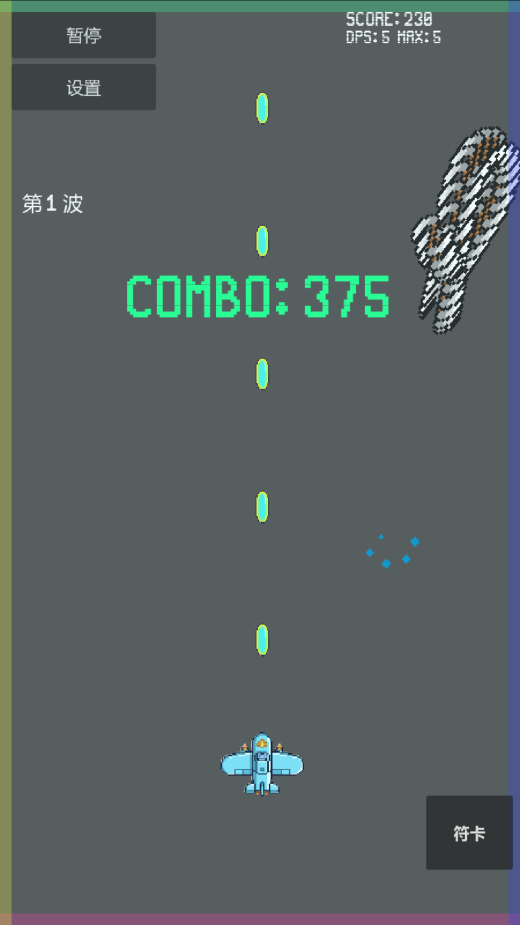
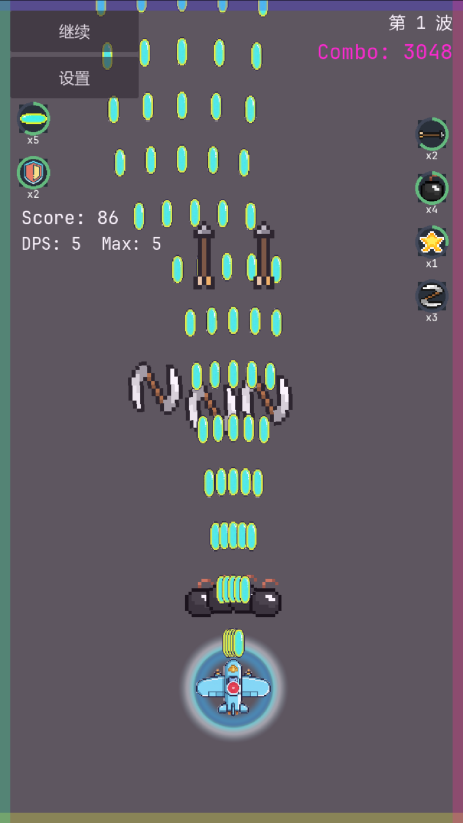
🎨 UI: 关于页版本号更新为 0.2.1
当日合并 5 个提交（共 6 个）：
- 96d486c 📝 DOCS: 为 v0.2.0 增加变更记录
- 41f4c78 🎮 ADD: 再次提高每波基础敌人数（7 起步）
- 71834ab 📝 DOCS: 记录 v0.2.1 发版信息
- 1616243 🎨 UPDATE: Replace images for Playing, Start Menu, and Upgrade screens
- fba166a 📦 NEW: 发布 0.2.1（版本号与文档对齐）
- 1bad077 🎨 UI: 关于页版本号更新为 0.2.1

diff --git a/docs/gdd/sections/13_release_and_metadata.md b/docs/gdd/sections/13_release_and_metadata.md
@@ -1,0 +1,70 @@
+## 13. 版本发布信息与检查清单（Release & Metadata）
+
+> 目标：当准备对外发布新版本（如 Demo、公测、正式版）时，有一份统一的检查清单，确保「玩家看到的所有信息」在游戏内外保持一致，不出现版本号/文案/截图错乱。
+
+### 13.1 发版范围记录
+
+- 每次计划发布新版本前，在本小节简单记录：
+  - **版本号**：与工程配置与发布包 Tag 一致。
+  - **发布日期**：预期/实际日期。
+  - **本次目标**：例如「首个公开 Demo」「新增 Boss」「补完升级池」等。
+  - **本次不包含的内容**：例如「暂不开放永久养成」「暂不做网络排行」等，避免玩家误解。
+
+> 当需求调整时，应先更新本节的发版范围，再去改其他章节（关卡、敌人、升级、UI 等）的 GDD 内容。
+
+#### v0.2.1
+
+- **版本号**：`0.2.1`
+- **发布日期**：2026-03-16
+- **本次目标**：
+  - 完成版本发布信息与检查清单（GDD 第 13 章），规范发版流程。
+  - 对齐平台与发布章节，不再强制依赖自动构建 CI，明确当前为本地导出为主。
+- **本次不包含的内容**：
+  - 仍不包含永久养成系统。
+  - 仍不包含网络排行榜及在线功能。
+
+### 13.2 游戏内信息检查（About / 菜单）
+
+- **About / Credits / 版本信息界面**
+  - 游戏名称与 README / 商店标题一致（大小写与标点一致性）。
+  - 版本号与本次构建版本一致（例如 `v1.0.0`）。
+  - 一句话简介与对外简介方向一致（例如「竖屏单手 Roguelite 射击」）。
+  - 制作人员名单与团队名称正确；第三方素材/插件按各自要求署名。
+  - 版权年份范围更新，例如 `© 2024–2026 <开发者名>`。
+
+- **主菜单 / 暂停菜单 / 设置**
+  - 主菜单或明显位置展示当前版本号。
+  - 若有「反馈 / Bug 反馈 / 社群 / 官网」按钮，链接正确可点。
+  - 若有隐私或用户协议入口，说明与实际实现（是否联网、是否收集数据）一致。
+
+### 13.3 仓库与文档检查（README / GDD / 已知问题）
+
+- **README（根目录）**
+  - 简介与 GDD 概览一致（平台、类型、核心卖点）。
+  - 显示的版本号或 Release 徽章指向当前要发的版本。
+  - 本地运行与打包步骤可实际执行成功（包括 Godot 版本与导出模板说明）。
+  - 截图 / GIF：
+    - 使用当前版本 UI（包含 Start Menu / Playing / Upgrade 等关键界面）。
+    - 图片清晰、大小合适，放在 `docs/picture` 或约定的资产目录中。
+
+- **GDD 与已知问题**
+  - 各章节（关卡、敌人、升级、UI 等）描述与本次版本实现一致，不写超前大量「未来计划」当成已实现内容。
+  - `KNOWN_ISSUES.md` 中列出本版本接受的已知问题，每条至少包括：
+    - 简要描述；
+    - 影响范围（是否影响新手体验、是否可能导致崩溃等）；
+    - 是否为阻断发版的问题（Blocker / Non-blocker）。
+
+### 13.4 发布渠道与对外页面检查（如有）
+
+- **商店 / 平台页面（如 Itch / TapTap / 官网）**
+  - 标题、副标题、分类标签与 GDD 的定位一致（例如「纵版 Roguelite 射击」「单手竖屏」等）。
+  - 简短描述与 README / 游戏内 About 的核心信息一致。
+  - 使用与 README 一致的一组截图，来源于稳定构建版本。
+
+- **版本号与更新日志**
+  - 商店中的版本号与构建版本 / 仓库 Tag 一致。
+  - 更新日志仅描述本次版本真正完成的内容，不写尚未做完的功能。
+
+- **法律与合规（如适用）**
+  - 隐私政策与游戏内说明一致。
+  - 若有在线功能，简单说明数据使用情况，并与真实实现保持一致。

diff --git a/docs/gdd/sections/02_platform_and_ci.md b/docs/gdd/sections/02_platform_and_ci.md
@@ -1,8 +1,8 @@
-# 02 平台与发布（跨平台 + GitHub Actions 自动构建）
+# 02 平台与发布（跨平台 + 发布方式）
 
 ## 版本与变更记录
 
-- **当前版本**：`0.1.1`（`project.godot` → `application/config/version`；Android 导出 `version/name` 与 `version/code=111` 对齐）。
+- **当前版本**：`0.2.1`（`project.godot` → `application/config/version`；Android 导出 `version/name` 与 `version/code=201` 对齐）。
 - **面向玩家的变更说明**：仓库根 **`CHANGELOG.md`**。
 
 ## 目标平台
@@ -11,32 +11,15 @@
 - **必须**：Android（移动端可玩）
 - **可扩展**：后续可加入 Web（若性能/输入适配允许）
 
-## 自动构建要求（GitHub Actions）
+## 发布与打包方式（当前阶段）
 
-- **触发**：每次 push / PR 自动构建
-- **产物**：
-  - Windows：可运行的导出包（zip）
-  - Android：APK（Demo 便于安装；如后续上架再做 AAB）
-- **交付**：Actions artifacts（或 Release artifacts）可下载验证
-- **约束**：
-  - 构建流程应可在无交互环境运行
-  - Android 签名策略建议分阶段：
-    - Demo 阶段：可先使用调试签名
-    - 需要稳定升级/安装时：CI 注入 keystore（推荐），避免每次签名变化导致无法覆盖安装
+- 当前项目 **不再要求「必须有自动构建 CI」**，只需保证：
+  - Windows 与 Android 均可以通过本地 Godot 导出得到可运行的构建包；
+  - 导出流程在 README / 文档中有简单说明，方便未来复现。
+- 若后续需要，可以再增加可选的 CI 工作流（例如 GitHub Actions），但不作为本阶段的硬性要求。
 
-## 当前工程与 CI 约定（仅保留约定，不写死实现）
+## 当前工程约定（仅保留与平台相关的约定）
 
-- **Godot 版本约定**：统一使用同一大版本（4.x），具体子版本由工程配置与 CI 工作流保持一致。
-- **主场景约定**：游戏有一个固定的主场景入口（例如 `Main`），在项目配置与 CI 中应保持一致引用。
+- **Godot 版本约定**：统一使用同一大版本（4.x），具体子版本由工程配置与导出设置保持一致。
+- **主场景约定**：游戏有一个固定的主场景入口（例如 `Main`），在项目配置中应保持一致引用。
 - **分辨率与渲染约定**：竖屏 720×1280 为目标设计分辨率，渲染采用适合移动端的模式（如移动优化管线），具体开关由工程配置决定。
-
-### GitHub Actions CI 约定（抽象）
-
-- **导出模板获取**：CI 需要自动安装对应 Godot 版本的导出模板（headless + export templates），避免手动干预。
-- **Windows 导出**：
-  - CI 中应导出一个可在 Windows 上直接运行的构建产物（例如 exe + 必要资源的压缩包）。
-- **Android 导出**：
-  - CI 中应能生成可安装到设备上的 APK（或后续 AAB），并预留可替换签名配置的能力。
-- **工作流触发**：`push` 与 `pull_request` 时自动运行构建，将产物作为 CI artifacts 提供下载验证。
-
-

diff --git a/CHANGELOG.md b/CHANGELOG.md
@@ -1,5 +1,25 @@
 # Changelog
 
+## [0.2.1] - 2026-03-16
+
+### 文档与发布
+- 在 GDD 中新增「版本发布信息与检查清单」（第 13 章），统一记录每次发版前需要自检的游戏内/仓库/发布页信息。
+- 更新平台与发布章节：当前阶段改为以本地导出为主，CI 自动构建改为可选而非硬性要求。
+- 对齐 Android 导出版本号与 Godot 工程版本：`0.2.1`（`version/name`）与 `version/code=201`。
+
+## [0.2.0] - 2026-03-16
+
+### HUD / UI
+- 重构 HUD 数值展示：主炮与护盾改为左侧 `StatusSlot` 槽位（图标 + 外圈进度环 + `xN` 数量），右侧为副武器与符卡的独立冷却槽条。
+- 新增星形符卡按钮 `SpellStarButton`：使用 `star0~star4` 帧序列表现充能进度，冷却中仅显示圆角底框，冷却完成后满星点亮；右下角只在可手动释放时显示，获得自动符卡后隐藏。
+- 右侧增加符卡冷却槽：图标改用星形，自动符卡时展示冷却进度，未自动符卡时不显示该槽。
+- 删除左侧符卡冷却文本行，仅保留按钮 + 槽位展示，整体布局更简洁。
+- 统一使用 `default_ui_theme.tres` 管理字体与样式，删除 HUD 中零散的字体覆盖逻辑。
+
+### 战斗与数值
+- 擦弹（Graze）除了加分外，现在也会增加连击值（等同一次命中），对应文档同步更新。
+- 提高普通波次出怪量：每波基础敌人数从 4 提升到 6，每波递增从 +2 提高到 +3，使整体刷怪更密集。
+
 ## [0.1.1] - 2026-03-13
 
 ### 战斗与数值

diff --git a/docs/gdd/GDD.md b/docs/gdd/GDD.md
@@ -6,7 +6,7 @@
 ## 文档结构
 
 - `docs/gdd/sections/01_overview.md`：概览与设计目标
-- `docs/gdd/sections/02_platform_and_ci.md`：跨平台目标与 GitHub Actions 自动构建要求
+- `docs/gdd/sections/02_platform_and_ci.md`：跨平台目标与发布方式（手动/可选 CI）
 - `docs/gdd/sections/03_core_loop_and_controls.md`：核心循环、失败与继续、输入与手感
 - `docs/gdd/sections/04_numbers_and_combat_rules.md`：数值框架、受击/判定、战斗规则
 - `docs/gdd/sections/05_level_structure.md`：2–5 分钟波次制关卡结构与可读性原则
@@ -18,6 +18,7 @@
 - `docs/gdd/sections/10_mvp_acceptance_and_milestones.md`：MVP 验收与里程碑
 - `docs/gdd/sections/11_art_and_assets.md`：占位美术与资源命名约定
 - `docs/gdd/sections/12_technical_notes.md`：技术栈与项目结构（Godot 4）
+- `docs/gdd/sections/13_release_and_metadata.md`：版本发布信息与检查清单
 
 ## 快速摘要（当前已确认需求）
 
@@ -41,4 +42,3 @@
 - **连击系统**：
   - 玩家在限定时间窗口内持续命中/击杀敌人会提升连击数，连击数越高，对应的得分加成越大。
   - 长时间未命中或玩家受击会导致连击断掉，清空连击加成。
-
